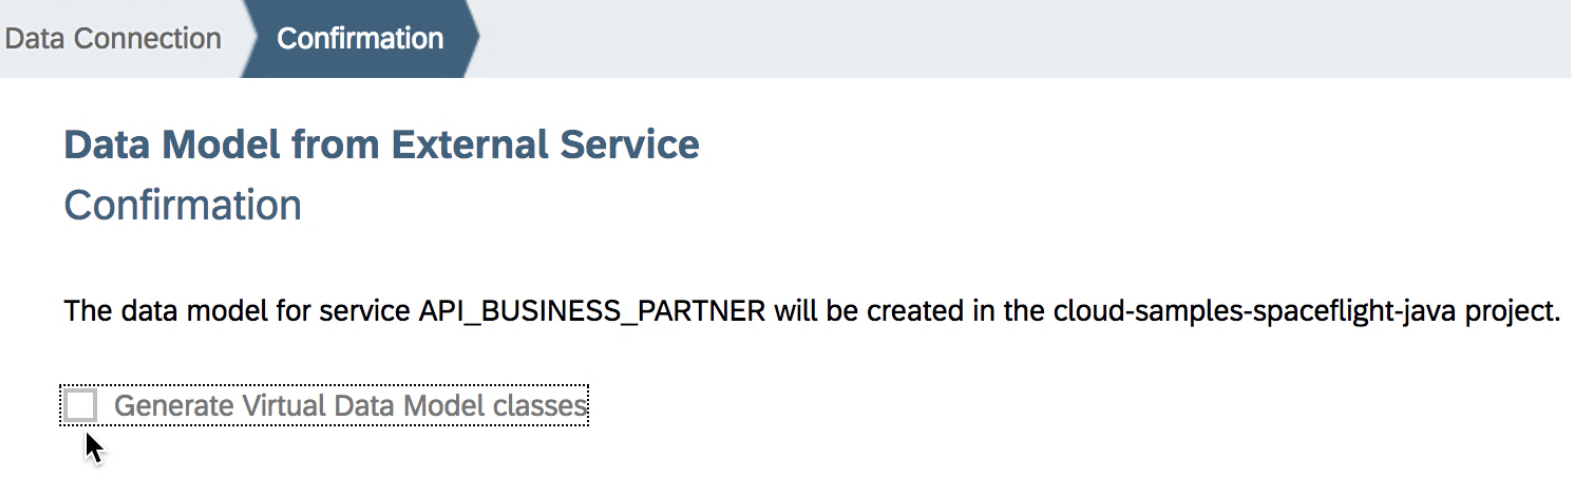
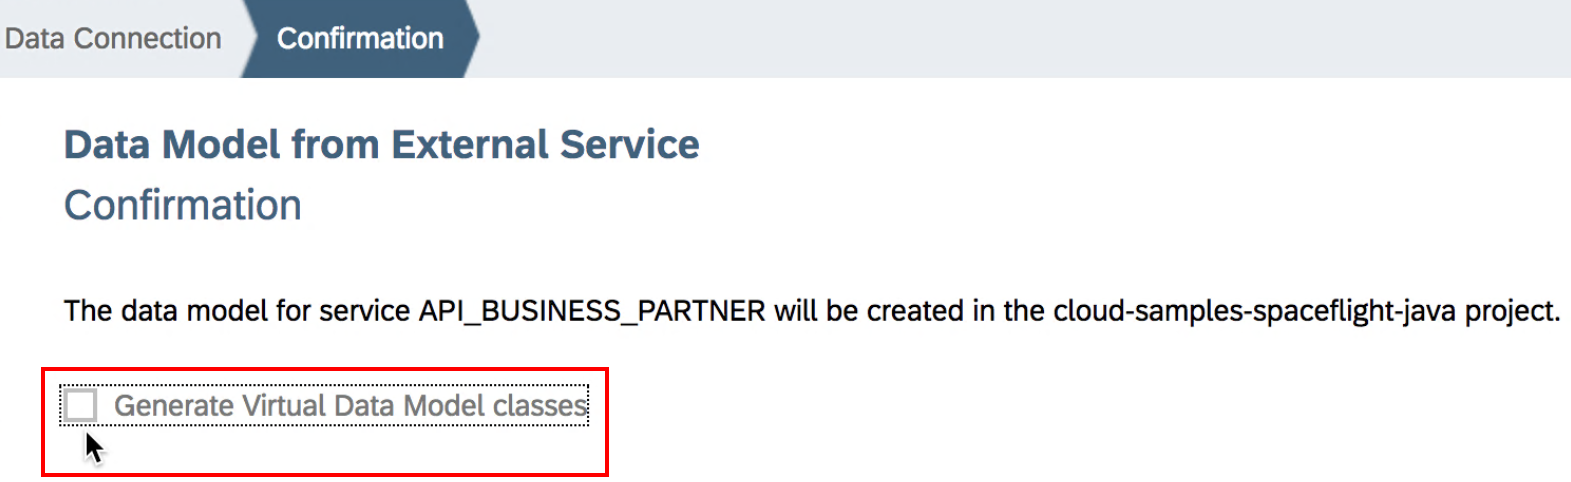
Excercise 03, part 1

Changed region(s): [[0.0312, 0.9647, 0.4055, 0.9959], [0.0312, 0.7469, 0.4055, 0.778]]

diff --git a/exercises/3 - Connect Service/README.md b/exercises/3 - Connect Service/README.md
@@ -29,21 +29,17 @@ In this exercise you'll learn how to add a remote service to your app which fetc
 <p align="center"><img width="470" src="res/pic303c.png" alt="Select OData API" border=1> </p>
 Store this file to your local computer.
 
-6. Import the service model into your project: Switch back to SAP Web IDE and import the selected file as an external service definition.
+6. Import the service model into your project: Switch back to SAP Web IDE and import the file stored on your computer as an external service definition, by right-mouse-click on the ``srv`` folder, then selecting "New" -> "DataModel from External Service":  
 ![TBD](res/pic306.png)
 
+7. In the wizard, import the previously stored file from your computer. Then press "Next".
+![TBD](res/pic308a.png)
 
-9. xxxx
-![TBD](res/pic308.png)
-
-10. xxxx
-![TBD](res/pic309.png)
-
-11. xxxx
+8. Uncheck the box "Generate Virtua Data Model classes" and press "Finish":
 ![TBD](res/pic310.png)
 
-12. xxxx
-![TBD](res/pic311.png)
+9. Verify that the import has generated two servie definitions, one in xml format ("edmx"), the other in json format ("cson").
+<p align="center"><img width="350" src="res/pic311.png" alt="Imported files" border=1> </p>
 
 ## 2. Change model
 
